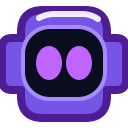
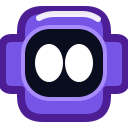
Start toolbar robot with white eyes

Changed region(s): [[0.25, 0.3438, 0.75, 0.6562]]

diff --git a/docs/TODO.md b/docs/TODO.md
@@ -5,7 +5,7 @@
 - Visually verify PageSweep 0.2.13 amber failure feedback and its 60-second inactivity fallback; background cancellation remains separate from popup feedback.
 
 - Verify PageSweep 0.2.12 on the same page starting at the top, middle, and bottom; capture scroll positions must remain contiguous and restore the original position.
-- Visually verify the white/purple/dark toolbar-eye cycle in PageSweep 0.2.15 and fainter unfinished track.
+- Visually verify the white/purple/dark toolbar-eye cycle in PageSweep 0.2.16 (idle eyes must appear white after reload) and fainter unfinished track.
 - Verify that the mascot and plume remain physically locked together throughout normal and completion hover in PageSweep 0.2.10.
 - Verify automatic popup dismissal after 1.7 seconds and inspect capture timing diagnostics in PageSweep 0.2.11; a slower 15-frame run was reported.
 

diff --git a/docs/CHANGELOG.md b/docs/CHANGELOG.md
@@ -6,6 +6,8 @@ All notable changes to this project are documented here. The project uses semant
 
 ### Changed
 
+- Version 0.2.16 uses white eyes for the idle toolbar icon as well as the first capture frame, making the loaded artwork directly verifiable before capture. Capture continues white, purple, dark, then white.
+
 - Version 0.2.15 keeps toolbar eyes full size and cycles white, purple, and dark at 450 ms per state for a clearer capture indicator.
 
 - Version 0.2.14 alternates visibly dim, narrow eyes with bright full-height eyes every 450 ms in the toolbar, and halves the unfinished progress track opacity.
